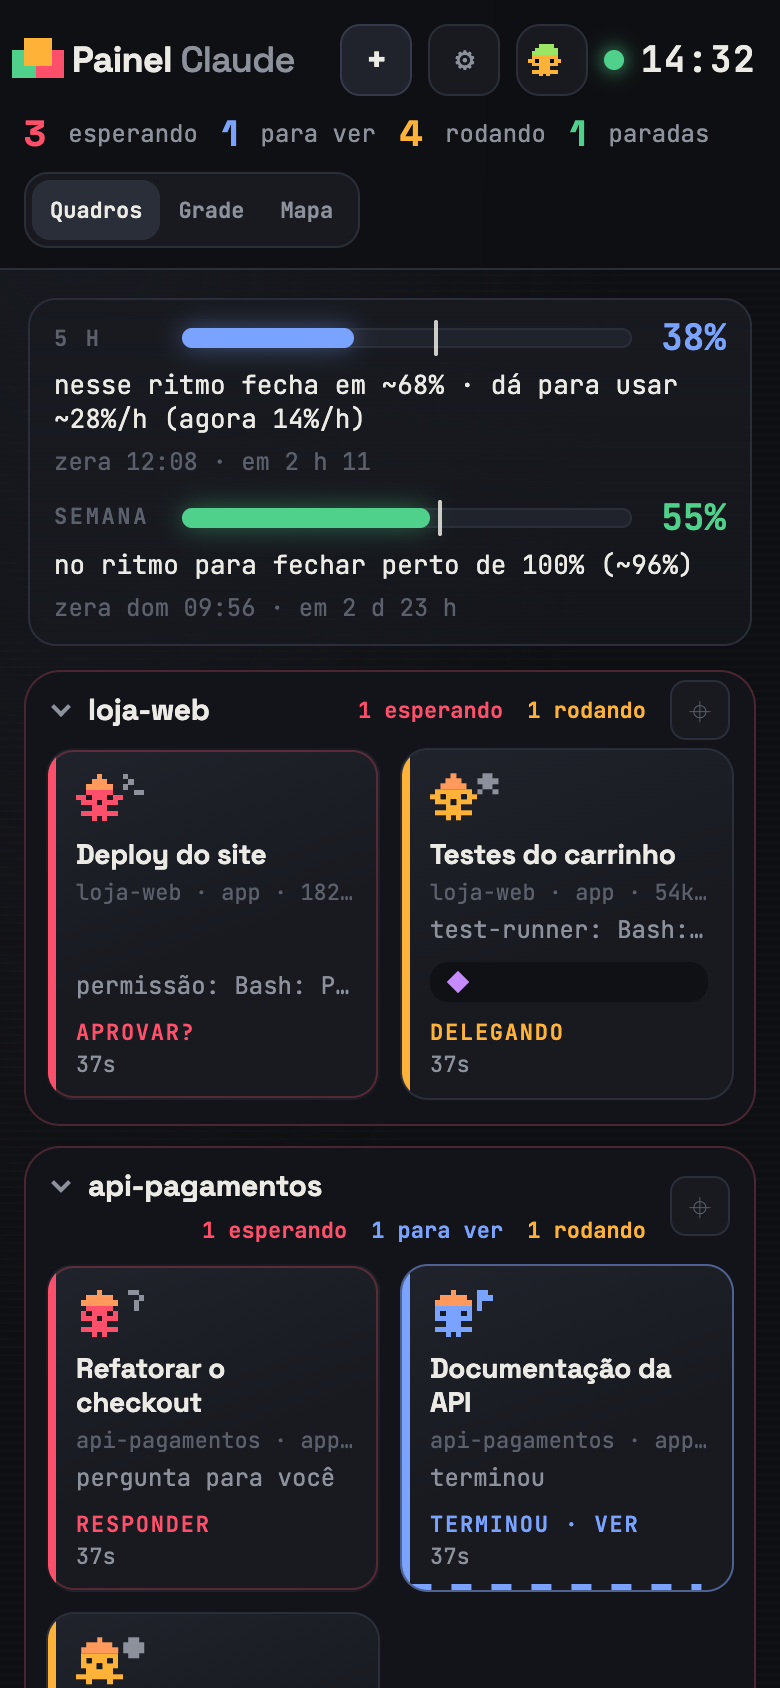
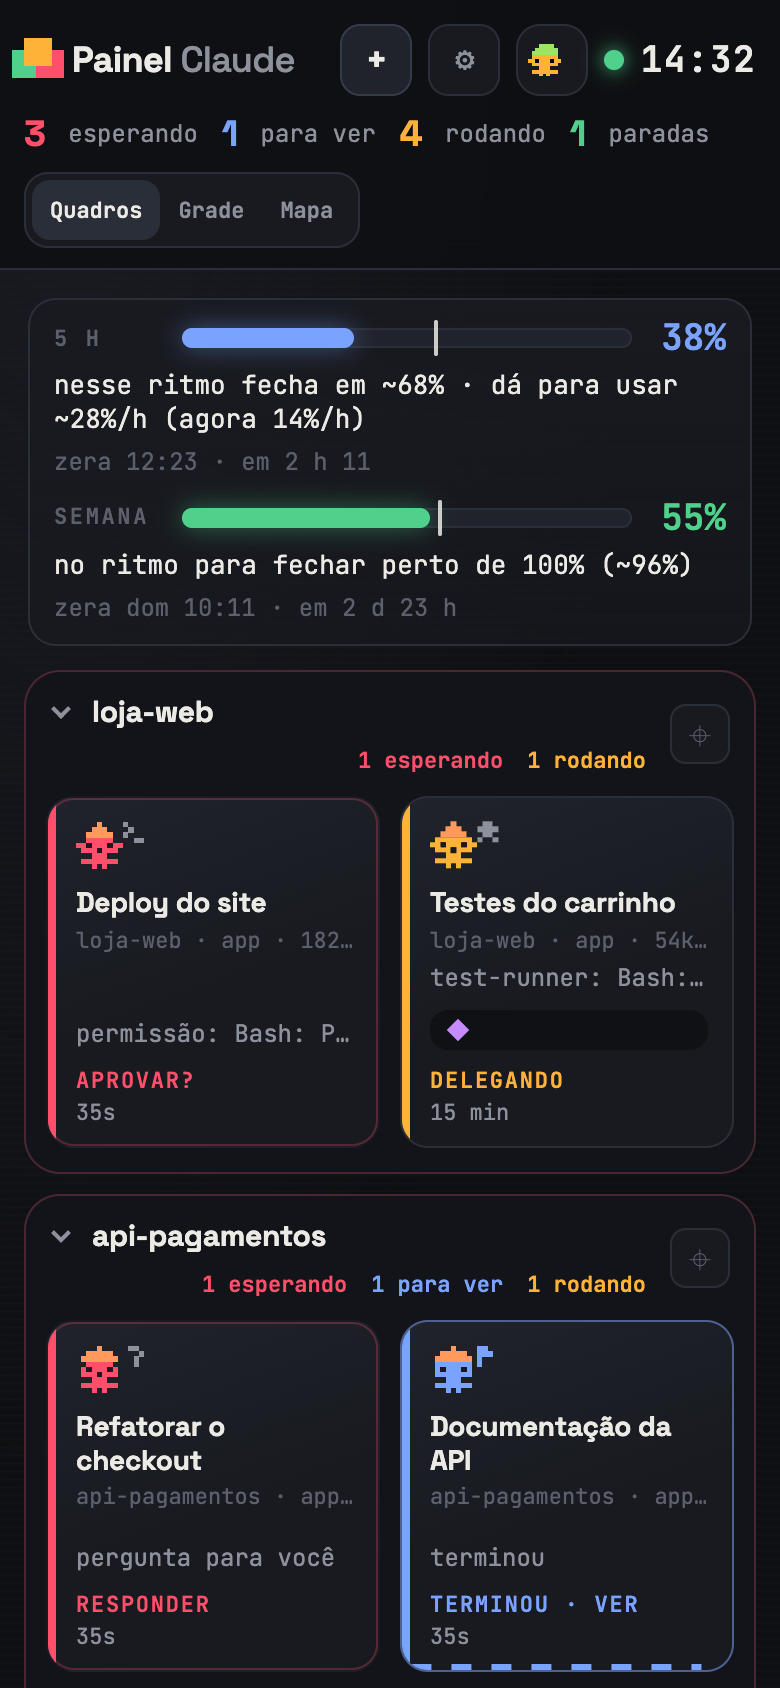
fix: quadros e quadrados com a mesma altura
Cabeçalho do quadro em duas linhas fixas (nome; sessões e contadores),
quadros da mesma linha esticam juntos e todo quadrado tem altura fixa,
descontando as cartas de trás nas famílias.

diff --git a/public/boards.css b/public/boards.css
@@ -47,9 +47,11 @@
 /* ---------- quadros por projeto ---------- */
 .grid[hidden] { display: none; }
 .grid-ruler { height: 0; visibility: hidden; overflow: hidden; }
-.grid[data-grouped] { grid-auto-flow: row dense; align-items: start; }
+.grid[data-grouped] { grid-auto-flow: row dense; align-items: stretch; }
 .group {
   grid-column: span var(--span, 1);
+  display: flex;
+  flex-direction: column;
   min-width: 0;
   padding: 0 0 4px;
   border: 1px solid var(--line);
@@ -63,11 +65,11 @@
 .group-bar { display: flex; align-items: center; }
 .group-head {
   display: flex;
+  flex-direction: column;
+  align-items: stretch;
   flex: 1;
   min-width: 0;
-  align-items: center;
-  flex-wrap: wrap;
-  gap: 6px 12px;
+  gap: 5px;
   padding: 12px 14px;
   border: 0;
   background: none;
@@ -88,7 +90,9 @@
   transition: transform 160ms var(--ease-out);
 }
 .group[data-collapsed] .group-chevron { transform: rotate(-45deg); margin-bottom: 0; }
-.group-name { margin: 0; min-width: 0; font: 700 16px/1.2 var(--font-display); letter-spacing: -0.01em; overflow-wrap: anywhere; }
+.group-line { display: flex; align-items: center; gap: 8px 10px; min-width: 0; height: 20px; white-space: nowrap; overflow: hidden; }
+.group-meta { height: 16px; padding-left: 15px; }
+.group-name { margin: 0; min-width: 0; font: 700 16px/1.2 var(--font-display); letter-spacing: -0.01em; overflow: hidden; text-overflow: ellipsis; white-space: nowrap; }
 .group-head .machine {
   padding: 0 5px; border: 1px solid currentColor; border-radius: 4px;
   font-size: 10px; font-weight: 600; color: var(--ink-dim);
@@ -97,7 +101,9 @@
 .group-total, .group-scheduled { font-size: 11px; color: var(--ink-faint); white-space: nowrap; }
 .group-bars { gap: 4px; }
 .group-bars .strip-bar { width: 12px; height: 6px; border-radius: 3px; }
-.group-counts { display: flex; flex-wrap: wrap; gap: 4px 12px; margin-left: auto; font-size: 11px; font-weight: 600; }
+.group-counts { display: flex; flex: none; gap: 10px; margin-left: auto; font-size: 11px; font-weight: 600; }
+/* Sem espaço, quem encolhe é o "N sessões"; os contadores ficam inteiros. */
+.group-meta .group-total, .group-meta .group-scheduled { flex: 0 1 auto; min-width: 0; overflow: hidden; text-overflow: ellipsis; }
 .group-count { color: var(--c, var(--ink-faint)); white-space: nowrap; }
 .group-count[data-status='waiting'] { --c: var(--waiting); }
 .group-count[data-status='error'] { --c: var(--error); }
@@ -125,6 +131,11 @@
   padding: 0 14px 10px;
 }
 .group-grid[hidden] { display: none; }
+/* Quadrados todos da mesma altura, na grade e nos quadros; a família desconta as cartas de trás. */
+:root { --tile-h: 176px; }
+.grid > .tile, .group-grid > .tile { height: var(--tile-h); min-height: 0; }
+.grid > .tile[data-family], .group-grid > .tile[data-family] { height: calc(var(--tile-h) - 12px); }
+.family-open .tile { height: auto; }
 
 /* celular: quadros empilhados na largura toda, duas colunas de quadrados dentro */
 @media (max-width: 720px) {
@@ -138,6 +149,8 @@
   .group-head { padding: 10px 12px; gap: 6px 8px; }
   .group-name { font-size: 15px; }
   .group-total { display: none; }
+  /* no celular as cartas de trás da família ocupam 8 px, não 12 */
+  .grid > .tile[data-family], .group-grid > .tile[data-family] { height: calc(var(--tile-h) - 8px); }
   .top-btn:not(.square) { padding: 0 8px; font-size: 11px; }
 }
 

diff --git a/public/boards.js b/public/boards.js
@@ -25,7 +25,12 @@ export function createBoard(key, { onToggle, onPin }) {
   const bars = el('span', 'strip-marks group-bars');
   bars.setAttribute('aria-hidden', 'true');
   const counts = el('span', 'group-counts');
-  head.append(chevron, title, machine, total, scheduled, bars, counts);
+  // Duas linhas fixas: nome em cima; sessões e contadores embaixo. Assim todo cabeçalho tem a mesma altura.
+  const line1 = el('span', 'group-line');
+  line1.append(chevron, title, machine);
+  const line2 = el('span', 'group-line group-meta');
+  line2.append(total, scheduled, bars, counts);
+  head.append(line1, line2);
   const pin = el('button', 'group-pin');
   pin.type = 'button';
   pin.append(el('span', 'group-pin-mark', '⌖'));
